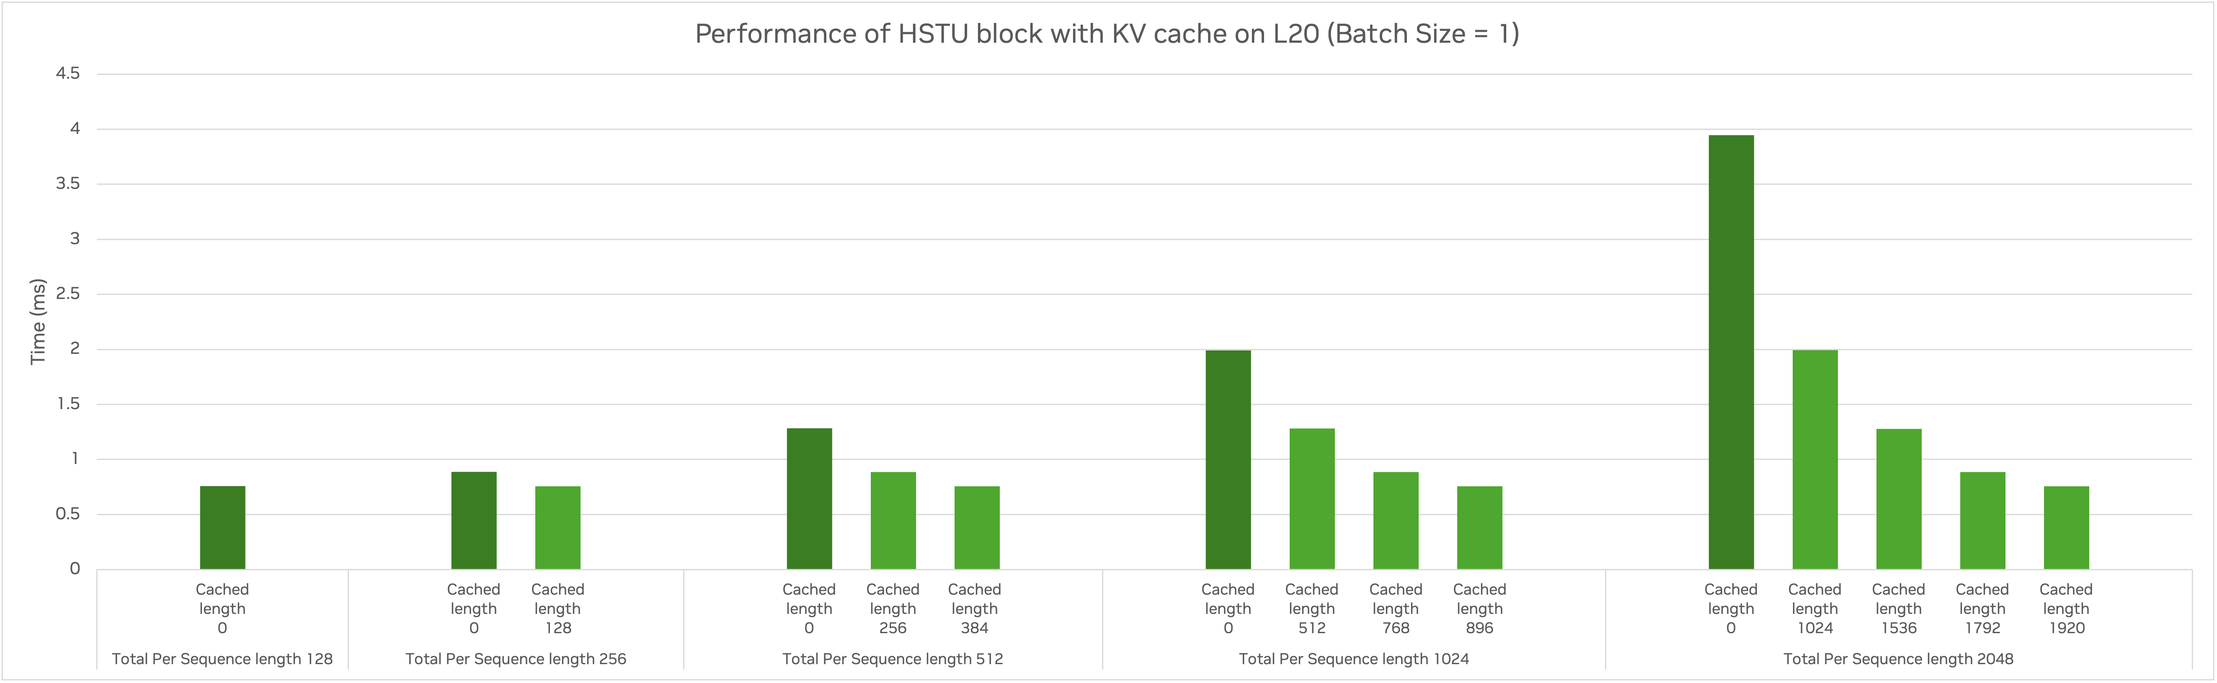
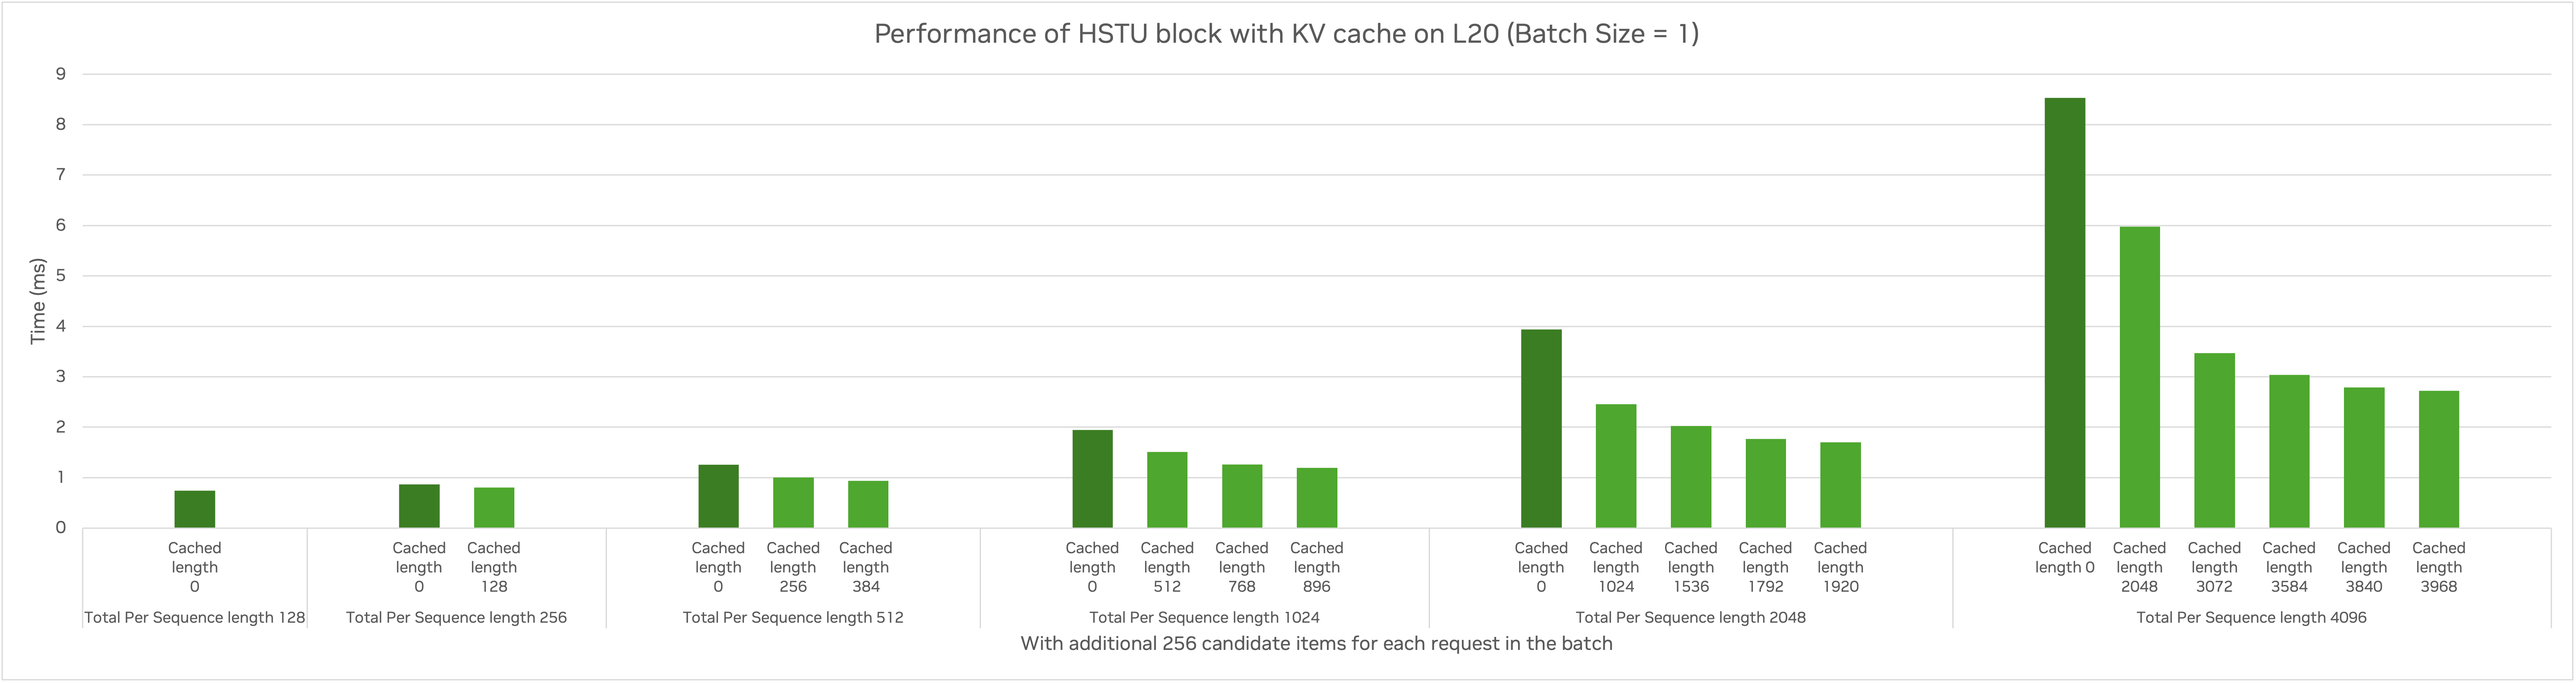
Update the benchmarks and results. (#144)
* Update the performance results.
* Fix the `total_history_offsets` in the paged hstu benchmark.

diff --git a/examples/hstu/benchmark/paged_hstu_with_kvcache_benchmark.py b/examples/hstu/benchmark/paged_hstu_with_kvcache_benchmark.py
@@ -186,7 +186,9 @@ def test_input(
     )
     new_history_nnz = batch_size * new_history_length
     new_history_nnz_cuda = torch.tensor([new_history_nnz])
-    kv_seqlen_offsets = torch.arange(batch_size + 1) * seq_len
+    kv_seqlen_offsets = torch.arange(batch_size + 1) * (
+        total_history_length + num_targets
+    )
 
     num_input_sets = max(num_input_sets, 2)
     input_lists = []

diff --git a/examples/hstu/benchmark/README.md b/examples/hstu/benchmark/README.md
@@ -159,6 +159,11 @@ Performance results:
 
 ![Local Image](inference_benchmark_l20.png)
 
+Note:
+1. The baseline performance is based on our implementation without KVCache support and CUDA Graph optimization.
+2. The end-to-end performance includes the embedding part, which utilizes both native `EmbeddingCollection` from TorchRec and `DynamicEmbedding`.
+3. The number of input sequences from the synthetic dataset increases according to the batch size.
+
 ### 2. HSTU block performance
 
 Performance Results:
@@ -166,4 +171,4 @@ Performance Results:
 ![Local Image](hstu_inference_l20_batch1.png)
 ![Local Image](hstu_inference_l20_batch8.png)
 
-When the input sequence has 2048 tokens in which 1920 tokens have KV data cached, we can achieve **5x ~ 10x** performance speedup on HSTU block (for batch size = 1 and 8 respectively).
+When the input sequence has 4096 tokens in which 3968 tokens have KV data cached, we can achieve on HSTU block a speedup of **3x ~ 20x** without candidate items, and a speedup of **3x ~ 8x** with extra 256 candidates for each sequence. (for batch size = 1 and 8 respectively).
